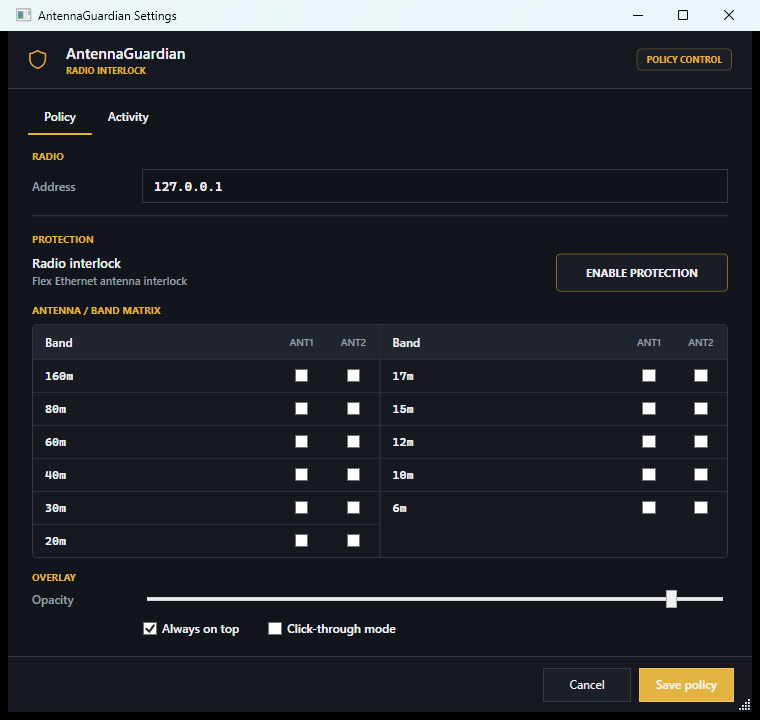
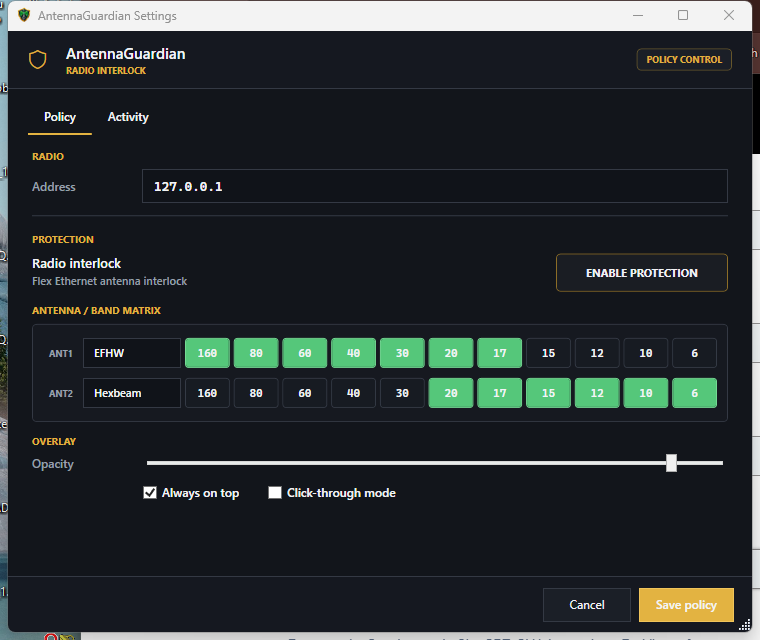
Modernize antenna band matrix

diff --git a/src/AntennaGuardian.App/SettingsWindow.xaml b/src/AntennaGuardian.App/SettingsWindow.xaml
@@ -3,7 +3,7 @@
         xmlns:x="http://schemas.microsoft.com/winfx/2006/xaml"
         Title="AntennaGuardian Settings"
         Width="760"
-        Height="720"
+        Height="640"
         MinWidth="660"
         MinHeight="600"
         WindowStartupLocation="CenterOwner"
@@ -11,30 +11,67 @@
         FontFamily="Segoe UI"
         ResizeMode="CanResizeWithGrip">
     <Window.Resources>
-        <DataTemplate x:Key="BandRowTemplate">
-            <Border BorderBrush="#2B3039" BorderThickness="0,1,0,0">
-                <Grid Height="32">
-                    <Grid.ColumnDefinitions>
-                        <ColumnDefinition Width="*" />
-                        <ColumnDefinition Width="52" />
-                        <ColumnDefinition Width="52" />
-                    </Grid.ColumnDefinitions>
-                    <TextBlock Text="{Binding Name}"
-                               Margin="12,0"
-                               VerticalAlignment="Center"
-                               FontFamily="Cascadia Mono"
-                               FontSize="12"
-                               FontWeight="SemiBold" />
-                    <CheckBox Grid.Column="1"
-                              IsChecked="{Binding Ant1Allowed}"
-                              HorizontalAlignment="Center"
-                              VerticalAlignment="Center" />
-                    <CheckBox Grid.Column="2"
-                              IsChecked="{Binding Ant2Allowed}"
-                              HorizontalAlignment="Center"
-                              VerticalAlignment="Center" />
-                </Grid>
-            </Border>
+        <Style x:Key="BandToggle" TargetType="ToggleButton">
+            <Setter Property="Height" Value="30" />
+            <Setter Property="Margin" Value="2" />
+            <Setter Property="Foreground" Value="#AEB6C0" />
+            <Setter Property="Background" Value="#171B22" />
+            <Setter Property="BorderBrush" Value="#343A45" />
+            <Setter Property="BorderThickness" Value="1" />
+            <Setter Property="FontFamily" Value="Cascadia Mono" />
+            <Setter Property="FontSize" Value="11" />
+            <Setter Property="FontWeight" Value="SemiBold" />
+            <Setter Property="Cursor" Value="Hand" />
+            <Setter Property="Template">
+                <Setter.Value>
+                    <ControlTemplate TargetType="ToggleButton">
+                        <Border x:Name="ToggleSurface"
+                                Background="{TemplateBinding Background}"
+                                BorderBrush="{TemplateBinding BorderBrush}"
+                                BorderThickness="{TemplateBinding BorderThickness}"
+                                CornerRadius="3">
+                            <ContentPresenter HorizontalAlignment="Center" VerticalAlignment="Center" />
+                        </Border>
+                        <ControlTemplate.Triggers>
+                            <Trigger Property="IsMouseOver" Value="True">
+                                <Setter TargetName="ToggleSurface" Property="BorderBrush" Value="{StaticResource GoldBrush}" />
+                                <Setter Property="Foreground" Value="{StaticResource InkBrush}" />
+                            </Trigger>
+                            <Trigger Property="IsChecked" Value="True">
+                                <Setter Property="Foreground" Value="#07150D" />
+                                <Setter Property="Background" Value="{StaticResource GreenBrush}" />
+                                <Setter Property="BorderBrush" Value="#74DA93" />
+                            </Trigger>
+                            <MultiTrigger>
+                                <MultiTrigger.Conditions>
+                                    <Condition Property="IsChecked" Value="True" />
+                                    <Condition Property="IsMouseOver" Value="True" />
+                                </MultiTrigger.Conditions>
+                                <Setter TargetName="ToggleSurface" Property="Background" Value="#6FD590" />
+                            </MultiTrigger>
+                            <Trigger Property="IsKeyboardFocused" Value="True">
+                                <Setter TargetName="ToggleSurface" Property="BorderBrush" Value="#F0C45B" />
+                                <Setter TargetName="ToggleSurface" Property="BorderThickness" Value="2" />
+                            </Trigger>
+                        </ControlTemplate.Triggers>
+                    </ControlTemplate>
+                </Setter.Value>
+            </Setter>
+        </Style>
+        <ItemsPanelTemplate x:Key="BandTogglePanel">
+            <UniformGrid Rows="1" />
+        </ItemsPanelTemplate>
+        <DataTemplate x:Key="Ant1BandToggleTemplate">
+            <ToggleButton Content="{Binding Label}"
+                          IsChecked="{Binding Ant1Allowed}"
+                          Style="{StaticResource BandToggle}"
+                          ToolTip="{Binding Name, StringFormat=Allow ANT1 on {0}}" />
+        </DataTemplate>
+        <DataTemplate x:Key="Ant2BandToggleTemplate">
+            <ToggleButton Content="{Binding Label}"
+                          IsChecked="{Binding Ant2Allowed}"
+                          Style="{StaticResource BandToggle}"
+                          ToolTip="{Binding Name, StringFormat=Allow ANT2 on {0}}" />
         </DataTemplate>
     </Window.Resources>
 
@@ -142,43 +179,70 @@
                                 BorderBrush="{StaticResource LineBrush}"
                                 BorderThickness="1"
                                 CornerRadius="4">
-                            <Grid>
-                                <Grid.ColumnDefinitions>
-                                    <ColumnDefinition Width="*" />
-                                    <ColumnDefinition Width="1" />
-                                    <ColumnDefinition Width="*" />
-                                </Grid.ColumnDefinitions>
-
-                                <StackPanel>
-                                    <Grid Height="34" Background="#20252E">
+                            <StackPanel Margin="8">
+                                <Grid Height="40">
+                                    <Grid.ColumnDefinitions>
+                                        <ColumnDefinition Width="142" />
+                                        <ColumnDefinition Width="*" />
+                                    </Grid.ColumnDefinitions>
+                                    <Grid>
                                         <Grid.ColumnDefinitions>
+                                            <ColumnDefinition Width="40" />
                                             <ColumnDefinition Width="*" />
-                                            <ColumnDefinition Width="52" />
-                                            <ColumnDefinition Width="52" />
                                         </Grid.ColumnDefinitions>
-                                        <TextBlock Text="Band" Margin="12,0" VerticalAlignment="Center" FontWeight="SemiBold" />
-                                        <TextBlock Grid.Column="1" Text="ANT1" HorizontalAlignment="Center" VerticalAlignment="Center" FontSize="10" Foreground="{StaticResource MutedBrush}" />
-                                        <TextBlock Grid.Column="2" Text="ANT2" HorizontalAlignment="Center" VerticalAlignment="Center" FontSize="10" Foreground="{StaticResource MutedBrush}" />
+                                        <TextBlock Text="ANT1"
+                                                   VerticalAlignment="Center"
+                                                   HorizontalAlignment="Center"
+                                                   FontSize="9"
+                                                   FontWeight="Bold"
+                                                   Foreground="{StaticResource MutedBrush}" />
+                                        <TextBox x:Name="Ant1NameTextBox"
+                                                 Grid.Column="1"
+                                                 Height="30"
+                                                 Margin="2"
+                                                 Padding="8,3"
+                                                 MaxLength="24"
+                                                 VerticalContentAlignment="Center"
+                                                 FontSize="11"
+                                                 ToolTip="Display name for Flex antenna ANT1" />
                                     </Grid>
-                                    <ItemsControl ItemsSource="{Binding LeftBands}" ItemTemplate="{StaticResource BandRowTemplate}" />
-                                </StackPanel>
-
-                                <Border Grid.Column="1" Background="{StaticResource LineBrush}" />
-
-                                <StackPanel Grid.Column="2">
-                                    <Grid Height="34" Background="#20252E">
+                                    <ItemsControl Grid.Column="1"
+                                                  ItemsSource="{Binding Bands}"
+                                                  ItemsPanel="{StaticResource BandTogglePanel}"
+                                                  ItemTemplate="{StaticResource Ant1BandToggleTemplate}" />
+                                </Grid>
+                                <Grid Height="40">
+                                    <Grid.ColumnDefinitions>
+                                        <ColumnDefinition Width="142" />
+                                        <ColumnDefinition Width="*" />
+                                    </Grid.ColumnDefinitions>
+                                    <Grid>
                                         <Grid.ColumnDefinitions>
+                                            <ColumnDefinition Width="40" />
                                             <ColumnDefinition Width="*" />
-                                            <ColumnDefinition Width="52" />
-                                            <ColumnDefinition Width="52" />
                                         </Grid.ColumnDefinitions>
-                                        <TextBlock Text="Band" Margin="12,0" VerticalAlignment="Center" FontWeight="SemiBold" />
-                                        <TextBlock Grid.Column="1" Text="ANT1" HorizontalAlignment="Center" VerticalAlignment="Center" FontSize="10" Foreground="{StaticResource MutedBrush}" />
-                                        <TextBlock Grid.Column="2" Text="ANT2" HorizontalAlignment="Center" VerticalAlignment="Center" FontSize="10" Foreground="{StaticResource MutedBrush}" />
+                                        <TextBlock Text="ANT2"
+                                                   VerticalAlignment="Center"
+                                                   HorizontalAlignment="Center"
+                                                   FontSize="9"
+                                                   FontWeight="Bold"
+                                                   Foreground="{StaticResource MutedBrush}" />
+                                        <TextBox x:Name="Ant2NameTextBox"
+                                                 Grid.Column="1"
+                                                 Height="30"
+                                                 Margin="2"
+                                                 Padding="8,3"
+                                                 MaxLength="24"
+                                                 VerticalContentAlignment="Center"
+                                                 FontSize="11"
+                                                 ToolTip="Display name for Flex antenna ANT2" />
                                     </Grid>
-                                    <ItemsControl ItemsSource="{Binding RightBands}" ItemTemplate="{StaticResource BandRowTemplate}" />
-                                </StackPanel>
-                            </Grid>
+                                    <ItemsControl Grid.Column="1"
+                                                  ItemsSource="{Binding Bands}"
+                                                  ItemsPanel="{StaticResource BandTogglePanel}"
+                                                  ItemTemplate="{StaticResource Ant2BandToggleTemplate}" />
+                                </Grid>
+                            </StackPanel>
                         </Border>
 
                         <TextBlock Text="OVERLAY"

diff --git a/src/AntennaGuardian.App/SettingsWindow.xaml.cs b/src/AntennaGuardian.App/SettingsWindow.xaml.cs
@@ -8,6 +8,7 @@ namespace AntennaGuardian.App;
 public sealed class BandRow
 {
     public required string Name { get; init; }
+    public required string Label { get; init; }
     public bool Ant1Allowed { get; set; }
     public bool Ant2Allowed { get; set; }
 }
@@ -25,12 +26,10 @@ public partial class SettingsWindow : Window
             new BandRow
             {
                 Name = band.Name,
+                Label = band.Name.TrimEnd('m'),
                 Ant1Allowed = IsAllowed("ANT1", band.Name),
                 Ant2Allowed = IsAllowed("ANT2", band.Name),
             }));
-        var splitAt = (Bands.Count + 1) / 2;
-        LeftBands = Bands.Take(splitAt).ToArray();
-        RightBands = Bands.Skip(splitAt).ToArray();
         Activity = activity;
         InitializeComponent();
         DataContext = this;
@@ -41,6 +40,8 @@ public partial class SettingsWindow : Window
         Height = Math.Clamp(settings.SettingsWindowHeight, MinHeight, maximumHeight);
 
         RadioHostTextBox.Text = settings.RadioHost;
+        Ant1NameTextBox.Text = settings.GetAntennaDisplayName("ANT1");
+        Ant2NameTextBox.Text = settings.GetAntennaDisplayName("ANT2");
         ProtectionCheckBox.IsChecked = settings.ProtectionEnabled;
         AlwaysOnTopCheckBox.IsChecked = settings.AlwaysOnTop;
         ClickThroughCheckBox.IsChecked = settings.ClickThrough;
@@ -48,8 +49,6 @@ public partial class SettingsWindow : Window
     }
 
     public ObservableCollection<BandRow> Bands { get; }
-    public IReadOnlyList<BandRow> LeftBands { get; }
-    public IReadOnlyList<BandRow> RightBands { get; }
     public ObservableCollection<string> Activity { get; }
     public GuardianSettings? Result { get; private set; }
     public double RememberedWidth => WindowState == WindowState.Normal
@@ -89,6 +88,11 @@ public partial class SettingsWindow : Window
             ["ANT1"] = Bands.Where(row => row.Ant1Allowed).Select(row => row.Name).ToList(),
             ["ANT2"] = Bands.Where(row => row.Ant2Allowed).Select(row => row.Name).ToList(),
         };
+        _settings.AntennaNames = new Dictionary<string, string>(StringComparer.OrdinalIgnoreCase)
+        {
+            ["ANT1"] = NormalizeAntennaName(Ant1NameTextBox.Text, "ANT1"),
+            ["ANT2"] = NormalizeAntennaName(Ant2NameTextBox.Text, "ANT2"),
+        };
         Result = _settings;
         DialogResult = true;
     }
@@ -97,4 +101,7 @@ public partial class SettingsWindow : Window
     {
         DialogResult = false;
     }
+
+    private static string NormalizeAntennaName(string name, string fallback) =>
+        string.IsNullOrWhiteSpace(name) ? fallback : name.Trim();
 }

diff --git a/src/AntennaGuardian.App/GuardianSettings.cs b/src/AntennaGuardian.App/GuardianSettings.cs
@@ -15,12 +15,18 @@ public sealed class GuardianSettings
     public double? OverlayLeft { get; set; }
     public double? OverlayTop { get; set; }
     public double SettingsWindowWidth { get; set; } = 760;
-    public double SettingsWindowHeight { get; set; } = 720;
+    public double SettingsWindowHeight { get; set; } = 640;
     public Dictionary<string, List<string>> AllowedBandsByAntenna { get; set; } =
         new(StringComparer.OrdinalIgnoreCase)
         {
             ["ANT1"] = [],
             ["ANT2"] = [],
+        };
+    public Dictionary<string, string> AntennaNames { get; set; } =
+        new(StringComparer.OrdinalIgnoreCase)
+        {
+            ["ANT1"] = "ANT1",
+            ["ANT2"] = "ANT2",
         };
 
     [JsonIgnore]
@@ -31,6 +37,17 @@ public sealed class GuardianSettings
         var cells = AllowedBandsByAntenna.SelectMany(pair =>
             pair.Value.Select(band => (pair.Key, band)));
         return AntennaPolicy.FromAllowed(cells.ToArray());
+    }
+
+    public string GetAntennaDisplayName(string antenna)
+    {
+        if (AntennaNames.TryGetValue(antenna, out var name)
+            && !string.IsNullOrWhiteSpace(name))
+        {
+            return name.Trim();
+        }
+
+        return antenna;
     }
 
     public GuardianSettings Clone() => new()
@@ -47,6 +64,10 @@ public sealed class GuardianSettings
         AllowedBandsByAntenna = AllowedBandsByAntenna.ToDictionary(
             pair => pair.Key,
             pair => pair.Value.ToList(),
+            StringComparer.OrdinalIgnoreCase),
+        AntennaNames = AntennaNames.ToDictionary(
+            pair => pair.Key,
+            pair => pair.Value,
             StringComparer.OrdinalIgnoreCase),
     };
 }

diff --git a/tests/AntennaGuardian.App.Tests/GuardianSettingsTests.cs b/tests/AntennaGuardian.App.Tests/GuardianSettingsTests.cs
@@ -1,0 +1,36 @@
+namespace AntennaGuardian.App.Tests;
+
+public sealed class GuardianSettingsTests
+{
+    [Fact]
+    public void GetAntennaDisplayNameReturnsConfiguredName()
+    {
+        var settings = new GuardianSettings();
+        settings.AntennaNames["ANT1"] = "  EFHW  ";
+
+        Assert.Equal("EFHW", settings.GetAntennaDisplayName("ANT1"));
+    }
+
+    [Fact]
+    public void GetAntennaDisplayNameFallsBackToFlexIdentifier()
+    {
+        var settings = new GuardianSettings();
+        settings.AntennaNames["ANT2"] = "  ";
+
+        Assert.Equal("ANT2", settings.GetAntennaDisplayName("ANT2"));
+        Assert.Equal("RX_A", settings.GetAntennaDisplayName("RX_A"));
+    }
+
+    [Fact]
+    public void CloneKeepsAntennaNamesIndependent()
+    {
+        var settings = new GuardianSettings();
+        settings.AntennaNames["ANT1"] = "Hexbeam";
+
+        var clone = settings.Clone();
+        clone.AntennaNames["ANT1"] = "EFHW";
+
+        Assert.Equal("Hexbeam", settings.AntennaNames["ANT1"]);
+        Assert.Equal("EFHW", clone.AntennaNames["ANT1"]);
+    }
+}

diff --git a/src/AntennaGuardian.App/App.xaml.cs b/src/AntennaGuardian.App/App.xaml.cs
@@ -46,6 +46,17 @@ public partial class App : System.Windows.Application
             {
                 RadioHost = "127.0.0.1",
                 ProtectionEnabled = false,
+                AntennaNames = new Dictionary<string, string>(StringComparer.OrdinalIgnoreCase)
+                {
+                    ["ANT1"] = "EFHW",
+                    ["ANT2"] = "Hexbeam",
+                },
+                AllowedBandsByAntenna = new Dictionary<string, List<string>>(
+                    StringComparer.OrdinalIgnoreCase)
+                {
+                    ["ANT1"] = ["160m", "80m", "60m", "40m", "30m", "20m", "17m"],
+                    ["ANT2"] = ["20m", "17m", "15m", "12m", "10m", "6m"],
+                },
             };
         }
 

diff --git a/src/AntennaGuardian.App/MainWindow.xaml.cs b/src/AntennaGuardian.App/MainWindow.xaml.cs
@@ -141,7 +141,7 @@ public partial class MainWindow : Window
 
     internal void ShowPreviewStatus(GuardianStatus status) => ApplyStatus(status);
 
-    private static string FormatDetail(GuardianStatus status)
+    private string FormatDetail(GuardianStatus status)
     {
         var parts = new List<string>();
         if (status.Decision.Band != "Unknown")
@@ -150,7 +150,7 @@ public partial class MainWindow : Window
         }
         if (!string.IsNullOrWhiteSpace(status.Context.TxAntenna))
         {
-            parts.Add(status.Context.TxAntenna);
+            parts.Add(_settings.GetAntennaDisplayName(status.Context.TxAntenna));
         }
         if (status.Context.FrequencyMhz is not null)
         {

diff --git a/README.md b/README.md
@@ -37,8 +37,10 @@ software, and uses color only where it carries operational meaning:
 
 ![AntennaGuardian policy settings](docs/images/settings-policy.png)
 
-The policy window provides a dense two-column matrix for ANT1 and ANT2 across
-the Flex native amateur bands from 160m through 6m.
+The policy window provides a compact two-row matrix with modern band toggles
+for ANT1 and ANT2 across the Flex native amateur bands from 160m through 6m.
+Each antenna can also have a custom display name, shown in settings and live
+overlay status without changing the underlying Flex antenna identifier.
 
 Window size, overlay position, opacity, always-on-top mode, and click-through
 mode are remembered between sessions.
